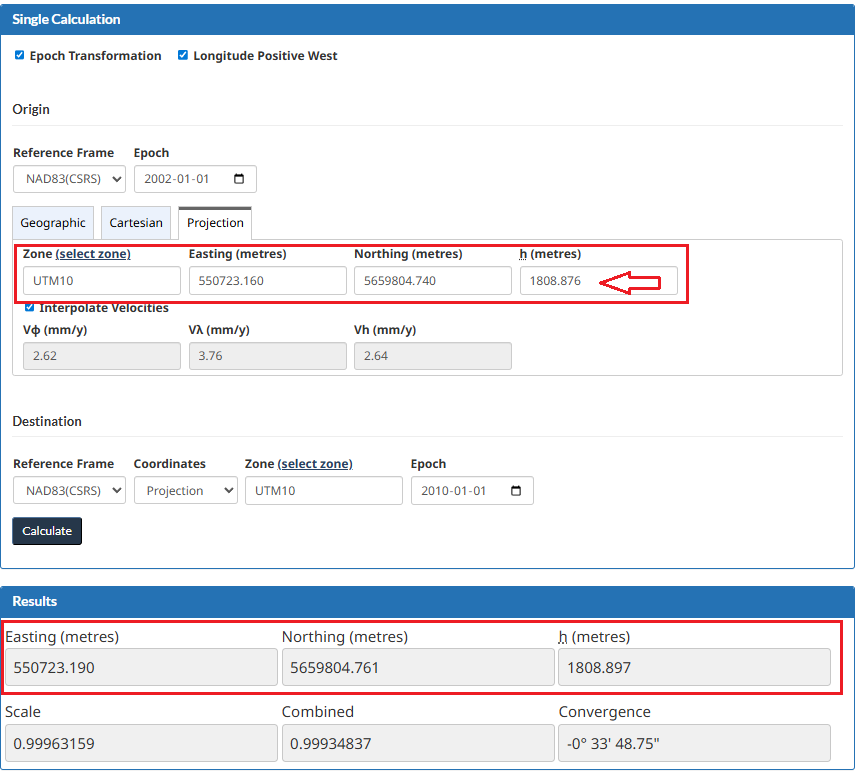
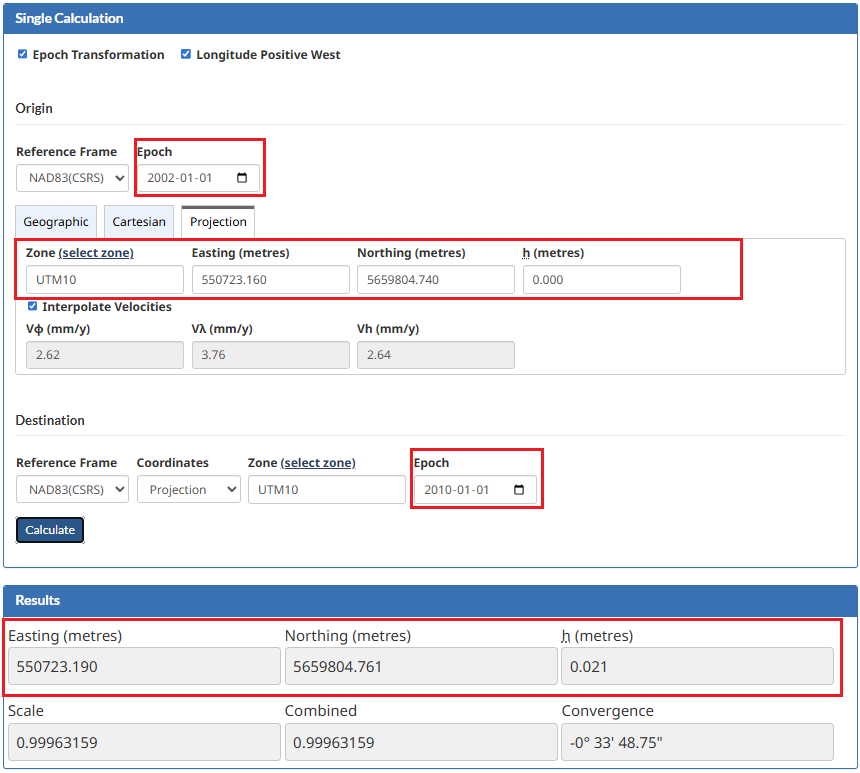
Ajout de détails additionnels sur la validation avec GPS-H et TRX. Remplacement des captures. Uniformisation de la traduction anglais/français.

diff --git a/docs/fr/vertical-transformations/pointcloud-transformations.md b/docs/fr/vertical-transformations/pointcloud-transformations.md
@@ -1,16 +1,38 @@
 # Transformations verticales de nuages de points
 
-Ce guide explique comment effectuer des transformations verticales et d'époques sur des données de nuages de points. La grille de géoïde correspondant à l'époque du système de référence horizontal associé au jeu de données est considérée. Les données lidar atteignent souvent une précision de l'ordre du centimètre. Par conséquent, les différences dues à un changement d'époque ont un impact et doivent être prises en compte.
+Ce guide explique comment effectuer des transformations verticales et d'époques sur des données de nuages de points. Comprendre la relation entre les systèmes altimétriques et les époques est crucial pour des transformations précises. Les données lidar aériennes atteignent souvent une précision de l'ordre du centimètre, rendant ces considérations essentielles.
+
+## Comprendre les systèmes altimétriques et les époques
+
+### CGVD28 - Convention sans époque
+Les hauteurs CGVD28 sont considérées **sans époque** par convention. Cela signifie :
+
+- Les hauteurs orthométriques en CGVD28 ne changent pas avec le temps
+- Le CGVD28 était basé sur des décennies de données de nivellement
+- Les hauteurs restent constantes indépendamment du mouvement de la croûte terrestre
+
+Cependant, puisque les hauteurs ellipsoïdales des GNSS **changent** avec le temps, différentes versions du modèle de géoïde HT2 ont été créées pour convertir entre les hauteurs ellipsoïdales à des époques spécifiques et les hauteurs orthométriques CGVD28 :
+
+- **HT2_1997** – convertit les hauteurs ellipsoïdales NAD83(SCRS) à l'époque 1997 en hauteurs orthométriques CGVD28
+- **HT2_2002** – convertit les hauteurs ellipsoïdales NAD83(SCRS) à l'époque 2002 en hauteurs orthométriques CGVD28  
+- **HT2_2010** – convertit les hauteurs ellipsoïdales NAD83(SCRS) à l'époque 2010 en hauteurs orthométriques CGVD28
+
+### CGVD2013 - Hauteurs dépendantes de l'époque
+Les hauteurs CGVD2013 **changent avec le temps** car elles suivent le mouvement de la croûte terrestre :
+
+- Les hauteurs de géoïde (CGG2013a) sont considérées statiques dans NAD83(SCRS) par convention
+- Les hauteurs orthométriques CGVD2013 changent au même rythme que les hauteurs ellipsoïdales (H = h - N)
+- La transformation verticale entre CGVD28 et CGVD2013 change avec le temps
 
 ## Scénarios de transformation
 
 Nous couvrons les scénarios de transformation suivants :
 
-1. **UTM 17N CGVD28, époque 2010 → UTM 17N CGVD2013, époque 2010** (transformation verticale seulement, pas de transformation d'époque)
-2. **MTM 7 CGVD28 1997, époque → MTM 7 CGVD2013, époque 2010** (transformation verticale et d'époque)
-3. **UTM 10N CGVD28, époque 2002 → UTM 10N CGVD2013, époque 2010** (transformation verticale et d'époque)
+1. **UTM 17N NAD83(SCRS) époque 2010 CGVD28 → UTM 17N NAD83(SCRS) époque 2010 CGVD2013** (transformation de système altimétrique seulement)
+2. **MTM 7 NAD83(SCRS) époque 1997 CGVD28 → MTM 7 NAD83(SCRS) époque 2010 CGVD2013** (transformation de système altimétrique avec conversion d'époque)
+3. **UTM 10N NAD83(SCRS) époque 2002 CGVD28 → UTM 10N NAD83(SCRS) époque 2010 CGVD2013** (transformation de système altimétrique avec conversion d'époque)
 
-Chaque scénario est illustré avec des exemples utilisant la notation PROJ string et/ou la notation URN NRCAN. Les formats de notation sont expliqués dans la section suivante.
+Chaque scénario est illustré avec des exemples utilisant la notation PROJ string et la notation URN NRCAN. Les formats de notation sont expliqués dans la section suivante.
 
 ## Formats de notation pour les transformations verticales
 
@@ -25,13 +47,13 @@ La notation PROJ string utilise une combinaison de codes EPSG et de fichiers de 
 ```
 
 - `+init=EPSG:xxxx` spécifie le système de coordonnées horizontal (ex. : zone UTM, MTM).
-- `+geoidgrids=...` pointe vers le fichier de grille de géoïde qui définit le datum vertical.
+- `+geoidgrids=...` pointe vers le fichier de grille de géoïde qui définit le système altimétrique.
 
 Cette notation est largement supportée et permet un contrôle précis des paramètres de transformation. Pour ce tutoriel, **nous l'utilisons uniquement pour les transformations de système altimétrique**. Pour les transformations qui incluent les époques, nous utilisons la notation URN.
 
 ### Notation URN NRCAN PROJ
 
-RNCan a collaboré avec l'équipe de développement PROJ pour faciliter les conversions d'époques et de datums verticaux. Depuis PROJ 9.6, des définitions spécifiques `CoordinateMetadata` ont été ajoutées à PROJ, permettant aux utilisateurs de référencer des systèmes de coordonnées canadiens complexes et des systèmes altimétriques à l'aide d'un nom de ressource uniforme (URN).
+RNCan a collaboré avec l'équipe de développement PROJ pour faciliter les conversions d'époques et de systèmes altimétriques. Depuis PROJ 9.6, des définitions spécifiques `CoordinateMetadata` ont été ajoutées à PROJ, permettant aux utilisateurs de référencer des systèmes de coordonnées canadiens complexes et des systèmes altimétriques à l'aide d'un nom de ressource uniforme (URN).
 
 La liste complète des définitions NRCAN disponibles peut être obtenue avec :
 ```bash
@@ -53,7 +75,7 @@ Ces définitions peuvent être ajoutées à votre installation PROJ locale en ex
     [📄 Télécharger nrcan_additional_coordinate_metadata.sql](../assets/scripts/nrcan_additional_coordinate_metadata.sql){ .md-button .md-button--primary }
 
 ```bash
-sqlite3 %PROJ_DATA%\proj.db ".read  D:/dev/CanElevation/docs/assets/scripts/nrcan_additional_coordinate_metadata.sql"
+sqlite3 %PROJ_DATA%\proj.db ".read D:/dev/CanElevation/docs/assets/scripts/nrcan_additional_coordinate_metadata.sql"
 ```
 
 Cette notation simplifie la spécification des systèmes de coordonnées canadiens courants, **incluant l'époque et le système altimétrique**, et assure la cohérence avec les définitions officielles de RNCan.
@@ -64,22 +86,23 @@ Cette notation simplifie la spécification des systèmes de coordonnées canadie
 
 [PDAL (Point Data Abstraction Library)](https://pdal.io/) est un outil puissant pour le traitement des nuages de points. Nous utilisons sa commande `translate` avec le filtre `filters.reprojection` pour effectuer les transformations.
 
-### Transformations de système altimétrique pour la même époque
+### Transformation de système altimétrique : Même époque horizontale
 
-Pour les transformations n'incluant pas de changement d'époque, les notations PROJ String et URN peuvent être utilisées.
-Nous montrerons comment appliquer une transformation de datum vertical de **UTM 17N CGVD28, époque 2010** vers **UTM 17N CGVD2013, époque 2010**.
+Pour les transformations au sein de la même époque horizontale, les notations PROJ String et URN peuvent être utilisées.
+Nous montrerons comment appliquer une transformation de système altimétrique de **UTM 17N NAD83(SCRS) époque 2010 CGVD28** vers **UTM 17N NAD83(SCRS) époque 2010 CGVD2013**. Puisque CGVD28 est sans époque, nous spécifions l'époque (2010) pour la grille HT2 appropriée pour convertir vers CGVD2013.
 
 <!-- Validated using gps-h 
 input coordinates: 673375.980 4891478.970 263.760
 output coordinates: 673375.980 4891478.970 263.409-->
 !!! info "Fichiers"
-    [📄 Télécharger input_utm17n_cgvd28_2010.laz](../assets/sample_data/pointcloud/input_utm17n_cgvd28_2010.laz){ .md-button .md-button--primary }
+    [📄 Télécharger input_utm17n_nad83csrs2010_cgvd28.laz](../assets/sample_data/pointcloud/input_utm17n_nad83csrs2010_cgvd28.laz){ .md-button .md-button--primary }
 
 **Notation PROJ string :**
+
 ```bash
 pdal translate ^
-D:\dev\CanElevation\docs\assets\sample_data\pointcloud\input_utm17n_cgvd28_2010.laz ^
-D:\dev\CanElevation\docs\assets\sample_data\pointcloud\output_utm17n_cgvd2013_2010.laz ^
+D:\dev\CanElevation\docs\assets\sample_data\pointcloud\input_utm17n_nad83csrs2010_cgvd28.laz ^
+D:\dev\CanElevation\docs\assets\sample_data\pointcloud\output_utm17n_nad83csrs2010_cgvd2013.laz ^
 --filters.reprojection.in_srs="+init=EPSG:2958 +geoidgrids=ca_nrc_HT2_2010v70.tif" ^
 --filters.reprojection.out_srs="+init=EPSG:2958 +geoidgrids=ca_nrc_CGG2013an83.tif" ^
 filters.reprojection
@@ -88,18 +111,20 @@ filters.reprojection
 **Notation URN NRCAN :**
 ```bash
 pdal translate ^
-D:\dev\CanElevation\docs\assets\sample_data\pointcloud\input_utm17n_cgvd28_2010.laz ^
-D:\dev\CanElevation\docs\assets\sample_data\pointcloud\output_utm17n_cgvd2013_2010.laz ^
+D:\dev\CanElevation\docs\assets\sample_data\pointcloud\input_utm17n_nad83csrs2010_cgvd28.laz ^
+D:\dev\CanElevation\docs\assets\sample_data\pointcloud\output_utm17n_nad83csrs2010_cgvd2013.laz ^
 --filters.reprojection.in_srs="urn:ogc:def:coordinateMetadata:NRCAN::NAD83_CSRS_2010_UTM17_HT2_2010" ^
 --filters.reprojection.out_srs="urn:ogc:def:coordinateMetadata:NRCAN::NAD83_CSRS_2010_UTM17_CGVD2013_2010" ^
 filters.reprojection
 ```
 
-### Travailler avec différentes époques
+### Travailler avec différentes époques horizontales
 
-Pour les nuages de points avec une précision centimétrique, la prise en compte des différences d'époques et de projections devient importante. La notation PROJ String utilisée dans l'exemple précédent ne peut pas être utilisée pour la conversion d'époque. Par conséquent, les scénarios de transformation suivants utilisent **uniquement** la notation **URN NRCAN**.
+Pour les nuages de points avec une précision centimétrique, la prise en compte des différences d'époques horizontales est importante lors de la conversion de CGVD28 vers CGVD2013. La notation PROJ String utilisée dans l'exemple précédent ne peut pas gérer la conversion d'époque. Par conséquent, les scénarios de transformation suivants utilisent **uniquement** la notation **URN NRCAN**.
 
-### MTM 7 CGVD28, époque 1997 → MTM 7 CGVD2013, époque 2010
+### MTM 7 NAD83(SCRS) époque 1997 CGVD28 → MTM 7 NAD83(SCRS) époque 2010 CGVD2013
+
+Cette transformation traite les données d'entrée où les coordonnées horizontales ont été acquises à l'époque 1997. La grille HT2_1997 appropriée est utilisée pour la conversion CGVD28, et la sortie convertit à la fois les coordonnées horizontales vers l'époque 2010 et la verticale vers CGVD2013.
 
 <!-- Validated using both TRX and gps-h 
 Conversion du vertical dans gps-h en utilisant HT2_1997_TO_CGG2013a. 71.525 -> 71.192.
@@ -108,26 +133,34 @@ input coordinates: 259800.461 5359998.81 71.525
 output coordinates:   259800.494 5359998.810 71.25-->
 
 !!! info "Fichiers"
-    [📄 Télécharger input_mtm7_cgvd28_1997.laz](../assets/sample_data/pointcloud/input_mtm7_cgvd28_1997.laz){ .md-button .md-button--primary }
+    [📄 Télécharger input_mtm7_nad83csrs1997_cgvd28.laz](../assets/sample_data/pointcloud/input_mtm7_nad83csrs1997_cgvd28.laz){ .md-button .md-button--primary }
 
 ```bash
 pdal translate ^
-D:\dev\CanElevation\docs\assets\sample_data\pointcloud\input_mtm7_cgvd28_1997.laz ^
-D:\dev\CanElevation\docs\assets\sample_data\pointcloud\output_mtm7_cgvd2013_2010.laz ^
+D:\dev\CanElevation\docs\assets\sample_data\pointcloud\input_mtm7_nad83csrs1997_cgvd28.laz ^
+D:\dev\CanElevation\docs\assets\sample_data\pointcloud\output_mtm7_nad83csrs2010_cgvd2013.laz ^
 --filters.reprojection.in_srs="urn:ogc:def:coordinateMetadata:NRCAN::NAD83_CSRS_1997_MTM7_HT2_1997" ^
 --filters.reprojection.out_srs="urn:ogc:def:coordinateMetadata:NRCAN::NAD83_CSRS_2010_MTM7_CGVD2013_2010" ^
 filters.reprojection
 ```
 
-### UTM 10N CGVD28, époque 2002 → UTM 10N CGVD2013, époque 2010
+### UTM 10N NAD83(SCRS) époque 2002 CGVD28 → UTM 10N NAD83(SCRS) époque 2010 CGVD2013
+
+Cette transformation traite les données d'entrée où les coordonnées horizontales ont été acquises à l'époque 2002. La grille HT2_2002 appropriée est utilisée pour la conversion CGVD28, et la sortie convertit à la fois les coordonnées horizontales vers l'époque 2010 et la verticale vers CGVD2013.
+
+<!-- Validated using both TRX and gps-h 
+Conversion du vertical dans gps-h en utilisant HT2_2002_TO_CGG2013a. 1808.58 -> 1808.876.
+Utilisation de la valeur 1808.876 dans TRX afin d'appliquer la transformation d'époque.
+input coordinates: 550723.16 5659804.74 1808.58
+output coordinates: 550723.19 5659804.76 1808.89-->
 
 !!! info "Fichiers"
-    [📄 Télécharger input_utm10n_cgvd28_2002.laz](../assets/sample_data/pointcloud/input_utm10n_cgvd28_2002.laz){ .md-button .md-button--primary }
+    [📄 Télécharger input_utm10n_nad83csrs2002_cgvd28.laz](../assets/sample_data/pointcloud/input_utm10n_nad83csrs2002_cgvd28.laz){ .md-button .md-button--primary }
 
 ```bash
 pdal translate ^
-D:\dev\CanElevation\docs\assets\sample_data\pointcloud\input_utm10n_cgvd28_2002.laz ^
-D:\dev\CanElevation\docs\assets\sample_data\pointcloud\output_utm10n_cgvd2013_2010.laz ^
+D:\dev\CanElevation\docs\assets\sample_data\pointcloud\input_utm10n_nad83csrs2002_cgvd28.laz ^
+D:\dev\CanElevation\docs\assets\sample_data\pointcloud\output_utm10n_nad83csrs2010_cgvd2013.laz ^
 --filters.reprojection.in_srs="urn:ogc:def:coordinateMetadata:NRCAN::NAD83_CSRS_2002_UTM10_HT2_2002" ^
 --filters.reprojection.out_srs="urn:ogc:def:coordinateMetadata:NRCAN::NAD83_CSRS_2010_UTM10_CGVD2013_2010" ^
 filters.reprojection
@@ -139,7 +172,7 @@ Une fois le nuage de points transformé, il est recommandé d'effectuer une vér
 
 ### Étapes de validation dans QGIS
 
-Ces étapes peuvent être utilisées pour valider uniquement les transformations de datums verticaux. Pour valider la conversion d'époque, veuillez utiliser les instructions de la section suivante.
+Ces étapes peuvent être utilisées pour valider uniquement les transformations de systèmes altimétriques. Pour valider la conversion d'époque, veuillez utiliser les instructions de la section suivante.
 
 1. Ouvrir le nuage de points d'entrée (en CGVD28) et le nuage de points converti (en CGVD2013) dans QGIS.
 2. Ajouter la grille de conversion correspondant à la transformation que vous avez effectuée (voir le tableau ci-dessous).
@@ -148,8 +181,10 @@ Ces étapes peuvent être utilisées pour valider uniquement les transformations
 
 **Grilles de conversion pour la conversion de système altimétrique CGVD28 vers CGVD2013**
 
-| Époque | Lien vers la grille |
-| ------ | ------------------- |
+La grille de conversion à utiliser dépend de **l'époque cible** de votre sortie CGVD2013, puisque les hauteurs CGVD2013 changent avec le temps tandis que les hauteurs CGVD28 restent constantes.
+
+| Époque CGVD2013 cible | Lien vers la grille |
+| ----- | --------- |
 | 1997 | [HT2_1997_CGG2013a_tif](https://cdn.proj.org/ca_nrc_HT2_1997_CGG2013a.tif) |
 | 2002 | [HT2_2002_CGG2013a_tif](https://cdn.proj.org/ca_nrc_HT2_2002v70_CGG2013a.tif) |
 | 2010 | [HT2_2010_CGG2013a_tif](https://cdn.proj.org/ca_nrc_HT2_2010v70_CGG2013a.tif) |
@@ -158,34 +193,34 @@ Ces étapes peuvent être utilisées pour valider uniquement les transformations
 
 #### GPS.H
 
-Après avoir complété l'analyse dans QGIS, vous pouvez confirmer la validité des élévations converties en interrogeant la même coordonnée XY dans l'[outil GPS.H](https://webapp.csrs-scrs.nrcan-rncan.gc.ca/geod/tools-outils/gpsh.php?locale=fr) des [Levés géodésiques du Canada](https://ressources-naturelles.canada.ca/science-donnees/science-recherche/geomatique/science-recherche-systemes-reference-geodesique). Cela confirmera que la transformation verticale du nuage de points a fonctionné correctement.
+Après avoir complété l'analyse dans QGIS, vous pouvez confirmer la validité des élévations converties en interrogeant la même coordonnée XY dans l'[outil GPS.H](https://webapp.csrs-scrs.nrcan-rncan.gc.ca/geod/tools-outils/gpsh.php?locale=fr) des [Levés géodésiques du Canada](https://ressources-naturelles.canada.ca/science-donnees/science-recherche/geomatique/science-recherche-systemes-reference-geodesique). Cela confirmera que la transformation verticale du nuage de points a été appliquée correctement.
 
-Ici, nous utilisons le fichier résultant de la dernière conversion (UTM 10N CGVD28, époque 2002 → UTM 10N CGVD2013, époque 2010). Nous testons la coordonnée d'entrée suivante :
+Ici, nous utilisons le fichier résultant de la dernière conversion (UTM 10N NAD83(SCRS) époque 2002 CGVD28 → UTM 10N NAD83(SCRS) époque 2010 CGVD2013). Nous testons la coordonnée d'entrée suivante :
 
 || X | Y | Z |
 || --- | ----| ----|
-| input | 550723.16 | 5659804.74 | 1808.58 |
-| output | 550723.19 | 5659804.76 | 1808.89 |
+| entrée | 550723.16 | 5659804.74 | 1808.58 |
+| sortie | 550723.19 | 5659804.76 | 1808.89 |
 
-La commande suivante est utile pour obtenir les détails d'un point unique à l'aide de pdal. En l'utilisant à la fois sur les fichiers d'entrée et de sortie pour le même identifiant de point, vous obtenez les coordonnées d'un point avant et après la transformation.
+La commande suivante est utile pour obtenir les détails d'un point unique à l'aide de PDAL. En l'utilisant à la fois sur les fichiers d'entrée et de sortie pour le même identifiant de point, vous obtenez les coordonnées d'un point avant et après la transformation.
 
 ```bash
 cd docs\assets\sample_data\pointcloud
-pdal info output_utm10n_cgvd2013_2010.laz -p 0
+pdal info output_utm10n_nad83csrs2010_cgvd2013.laz -p 0
 ```
 
-Dans GPS.H, nous choisissons le mode approprié (Convert) et la grille correspondant à la transformation que nous avons effectuée (HT2_2002_to_CGG2013a). Nous ajoutons ensuite les coordonnées et calculons la hauteur CGVD2013.
+Dans GPS.H, nous choisissons le mode approprié (Convert) et la grille correspondant à la transformation que nous avons effectuée. Encore une fois, puisque les hauteurs CGVD28 sont statiques, nous utilisons la grille de conversion correspondant à **l'époque cible**, qui est **HT2_2010_to_CGG2013a**. Nous ajoutons ensuite les coordonnées d'entrée et calculons la hauteur CGVD2013 correspondante.
 
 ![image](../assets/images/gps-h_scenario3.png)
 
-!!! warning "IMPORTANT"
-    **La valeur que vous obtiendrez (1808.876 m) ne correspondra pas à la valeur Z que vous avez obtenue de la conversion PDAL (1808.89 m). C'est parce que GPS.H n'effectue pas de conversion d'époque. Pour valider la conversion d'époque, nous devons utiliser l'outil TRX (voir la prochaine section).**
 
 #### TRX
 
-En utilisant TRX, nous pouvons valider les coordonnées que nous avons obtenues pour nous assurer que la conversion d'époque a été effectuée correctement.
-Pour les coordonnées X et Y, nous utiliserons les mêmes valeurs d'entrée que nous avons utilisées dans la dernière section. Pour la valeur Z, nous utiliserons la hauteur résultante que nous avons obtenue de GPS.H dans la dernière section (1808.876 m). Puisque GPS.H n'effectue pas de conversion d'époque, cette hauteur est toujours à l'époque 2002.
+En utilisant TRX, nous pouvons valider les coordonnées X et Y que nous avons obtenues pour nous assurer que la conversion d'époque a été effectuée correctement.
+Nous utiliserons les mêmes valeurs d'entrée que nous avons utilisées dans la dernière section. Nous pouvons ignorer la valeur Z puisque GPS.H a déjà fourni une valeur qui incluait la conversion d'époque.
 
 ![image](../assets/images/TRX_scenario3.png)
 
-Vous devriez ensuite vous assurer que les coordonnées résultantes correspondent à celles des fichiers résultants. Si ce n'est pas le cas, veuillez réviser les coordonnées et paramètres que vous avez utilisés pour vous assurer qu'ils sont corrects.
+La valeur h résultante représente la différence de hauteur causée par le changement d'époque (2002 à 2010) aux coordonnées X et Y données. Encore une fois, ce changement d'époque a été pris en compte pour la conversion Z en utilisant GPS.H, donc nous n'avons pas à le traiter séparément.
+
+**Vous devriez** vous assurer que les coordonnées X et Y résultantes correspondent à celles des fichiers résultants. Si ce n'est pas le cas, veuillez réviser les coordonnées et paramètres que vous avez utilisés pour vous assurer qu'ils sont corrects.

diff --git a/docs/en/vertical-transformations/pointcloud-transformations.md b/docs/en/vertical-transformations/pointcloud-transformations.md
@@ -1,4 +1,3 @@
-<!-- filepath: d:\dev\CanElevation\docs\en\vertical-transformations\pointcloud-transformations.md -->
 # Vertical Transformations for Point Clouds
 
 This guide demonstrates how to perform vertical and epoch transformations on point cloud data. Understanding the relationship between vertical datums and epochs is crucial for accurate transformations. Aerial lidar data often reach accuracy in the centimeter range, making these considerations essential.
@@ -121,7 +120,7 @@ filters.reprojection
 
 ### Working with Different Horizontal Epochs
 
-For point clouds with centimeter-level accuracy, accounting for differences in horizontal epochs is important when converting to CGVD28, and then to CGVD2013. The PROJ String notation used in the previous example cannot handle epoch conversion. Therefore, the following transformation scenarios use the **NRCAN URN** notation only.
+For point clouds with centimeter-level accuracy, accounting for differences in horizontal epochs is important when converting from CGVD28 to CGVD2013. The PROJ String notation used in the previous example cannot handle epoch conversion. Therefore, the following transformation scenarios use the **NRCAN URN** notation only.
 
 ### MTM 7 NAD83(CSRS) epoch 1997 CGVD28 → MTM 7 NAD83(CSRS) epoch 2010 CGVD2013
 
@@ -173,12 +172,16 @@ Once the point cloud has been transformed, it is recommended to perform an indep
 
 ### Validation Steps in QGIS
 
-These steps can be used to validate vertical datum transformations only. To validate epoch conversion, please use the instructions in the next section.
+These steps can be used to validate vertical datum transformations only. **To validate epoch conversion, please use the instructions in the next section.**
 
 1. Open the input point cloud (in CGVD28) and the converted point cloud (in CGVD2013) in QGIS.
 2. Add the conversion grid corresponding to the transformation you performed (see the table below).
 3. Use the 'Identify Features' tool or the point cloud profile tool to query elevation values at the same location.
 4. Compare the obtained values: they should show a difference corresponding to the variation between the two geoids at that location, according to the grids used in the transformation.
+
+The following screenshot illustrates the result obtained. The value of the separation grid (HT2_2010_CGG2013a_tif) is 35 cm, which corresponds to the difference between the point elevation in CGVD28 and CGVD2013 at the same location, which are 266.57 m and 266.22 m respectively.
+
+![image](../assets/images/QGIS_validation.png)
 
 **Conversion grids for CGVD28 to CGVD2013 datum conversion**
 
@@ -194,7 +197,7 @@ The conversion grid to use depends on the **target epoch** of your CGVD2013 outp
 
 #### GPS.H
 
-After completing the analysis in QGIS, you can confirm the validity of the converted elevations by querying the same XY coordinate in the [GPS.H tool](https://webapp.csrs-scrs.nrcan-rncan.gc.ca/geod/tools-outils/gpsh.php?locale=en) from the [Canadian Geodetic Survey](https://natural-resources.canada.ca/science-data/science-research/geomatics/geodetic-reference-systems). This will confirm that the vertical transformation of the point cloud has worked correctly.
+After completing the analysis in QGIS, you can confirm the validity of the converted elevations by querying the same XY coordinate in the [GPS.H tool](https://webapp.csrs-scrs.nrcan-rncan.gc.ca/geod/tools-outils/gpsh.php?locale=en) from the [Canadian Geodetic Survey](https://natural-resources.canada.ca/science-data/science-research/geomatics/geodetic-reference-systems). This will confirm that the vertical transformation of the point cloud has been applied correctly.
 
 Here, we are using the resulting file from the last conversion (UTM 10N NAD83(CSRS) epoch 2002 CGVD28 → UTM 10N NAD83(CSRS) epoch 2010 CGVD2013). We test the following input coordinate:
 
@@ -203,29 +206,28 @@ Here, we are using the resulting file from the last conversion (UTM 10N NAD83(CS
 | input | 550723.16 | 5659804.74 | 1808.58 |
 | output | 550723.19 | 5659804.76 | 1808.89 |
 
-The following command is useful to get a single point details using pdal. By using it on both the input and output files for the same point id, you get the coordinates of the a point before and after the transformation.
+The following command is useful to get a single point's details using PDAL. By using it on both the input and output files for the same point ID, you get the coordinates of a point before and after the transformation.
 
 ```bash
 cd docs\assets\sample_data\pointcloud
 pdal info output_utm10n_nad83csrs2010_cgvd2013.laz -p 0
 ```
 
-In GPS.H, we choose the appropriate mode (Convert) and the grid corresponding to the transformation we performed (HT2_2002_to_CGG2013a). We then add the coordinates and calculate the CGVD2013 height.
+In GPS.H, we choose the appropriate mode (Convert) and the grid corresponding to the transformation we performed. Again, since CGVD28 heights are static, we use the conversion grid corresponding to the **target epoch**, which is **HT2_2010_to_CGG2013a**. We then add the input coordinates and calculate the corresponding CGVD2013 height.
 
 ![image](../assets/images/gps-h_scenario3.png)
 
 
-!!! warning "IMPORTANT"
-    **The value you will get (1808.876 m) won't match the Z value you got from the PDAL conversion (1808.89 m). This is because GPS.H does not perform epoch conversion. To validate the epoch conversion, we need to use the TRX tool (see the next section).**
-
 #### TRX
 
-Using TRX, we can validate the coordinates we obtained to ensure the epoch conversion was performed properly.
-For the X and Y coordinates, we will use the same input values we used in the last section. For the Z value, we will use the resulting height we obtained from GPS.H in the last section (1808.876 m). Since GPS.H does not perform epoch conversion, this height is still in epoch 2002.
+Using TRX, we can validate the X and Y coordinates we obtained to ensure the epoch conversion was performed properly.
+We will use the same input values we used in the last section. We can skip the Z value since GPS.H already provided a value that included the epoch conversion. 
 
 ![image](../assets/images/TRX_scenario3.png)
 
-You should then ensure that the resulting coordinates match those in the resulting files. If this is not the case, please review the coordinates and parameters you have used to make sure they are correct.
+The resulting h value represents the height difference caused by the epoch change (2002 to 2010) at the given X and Y coordinates. Again, this epoch change was considered for the Z conversion using GPS.H, so we don't have to address it separately.
+
+**You should** ensure that the resulting X and Y coordinates match those in the resulting files. If this is not the case, please review the coordinates and parameters you have used to make sure they are correct.
 
 
 
